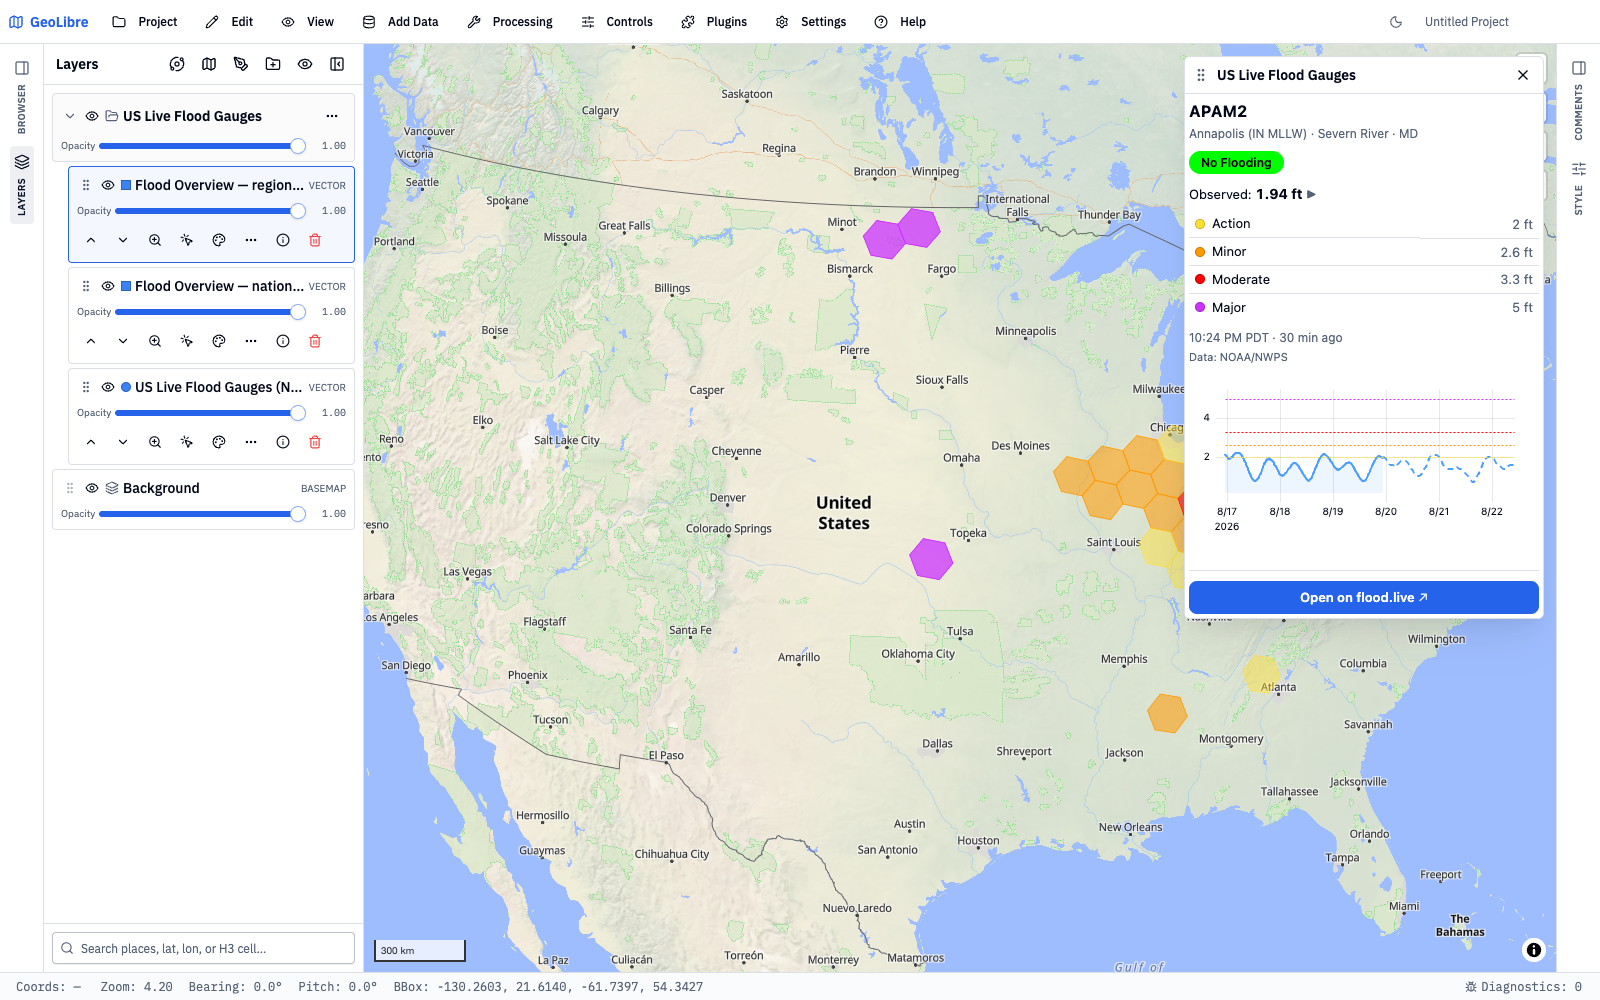
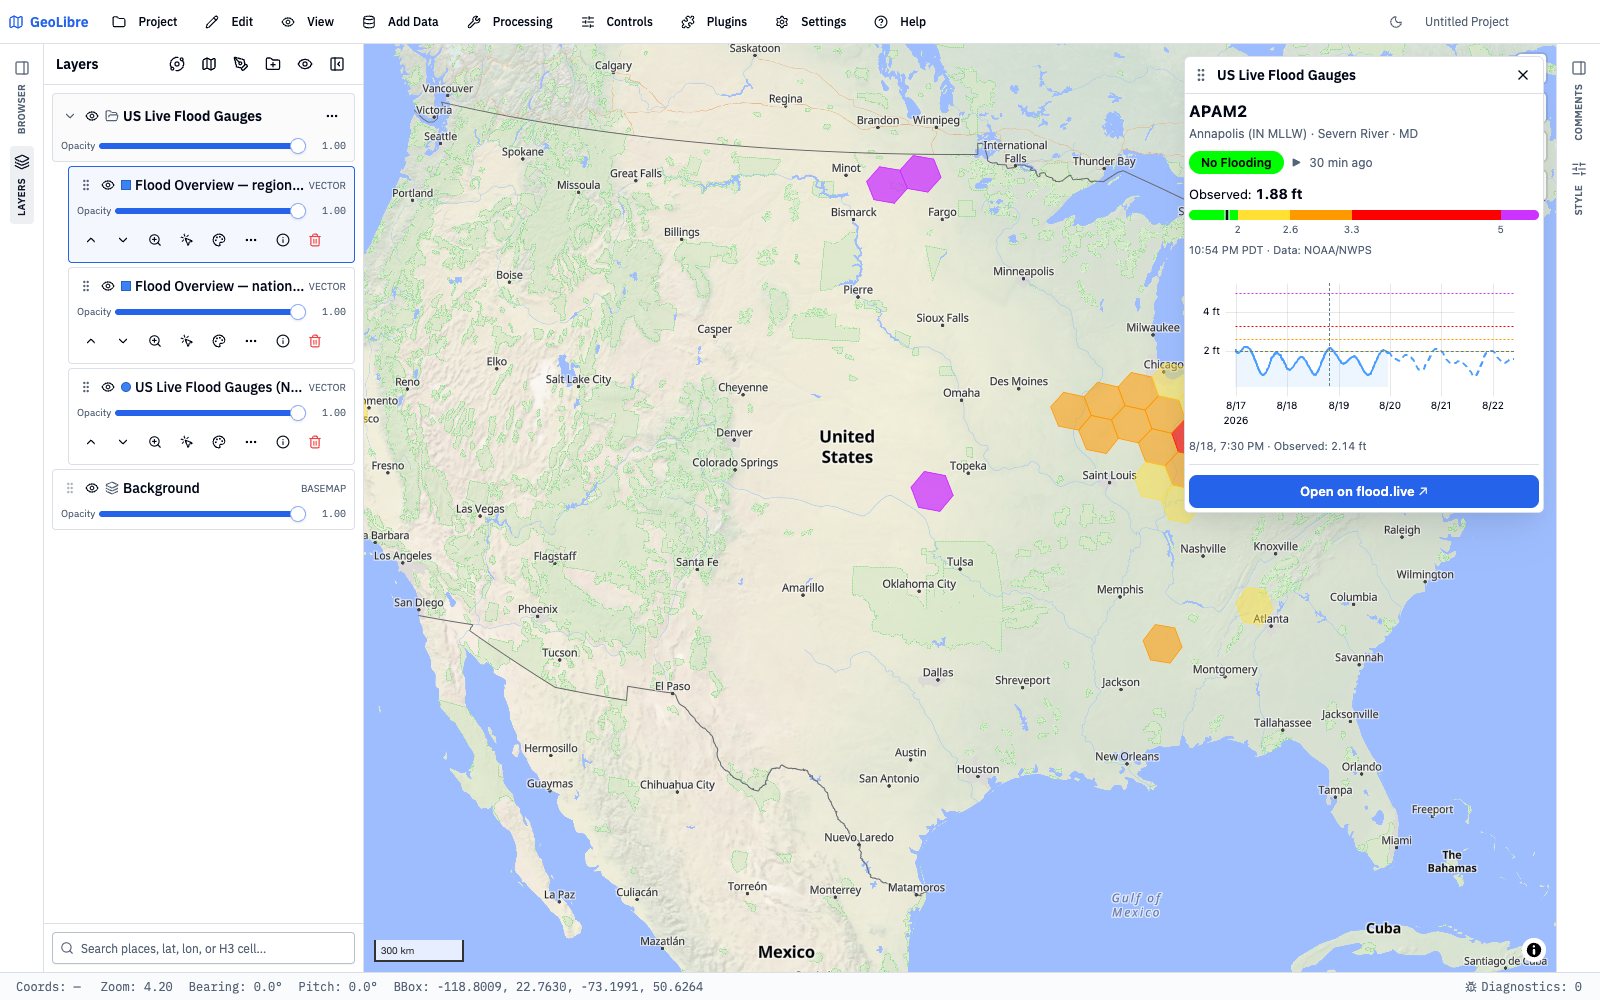
Y-axis unit labels; refreshed screenshots; credit by GitHub handle
- Hydrograph y-axis ticks now carry the stage unit ("2 ft"), axis
  widened to fit.
- Both README screenshots regenerated from the v0.3.0 panel (the CONUS
  shot still showed the old threshold table).
- Authorship shown as chuofringer (vibemapper.dev link kept), per owner
  preference — no real name in the repo.

diff --git a/src/panel/hydrograph.ts b/src/panel/hydrograph.ts
@@ -117,7 +117,11 @@ export class Hydrograph {
           grid: { stroke: GRID_COLOR, width: 1 },
           ticks: { stroke: GRID_COLOR, width: 1 },
           font: "10px system-ui",
-          size: 36,
+          // Tick labels carry the stage unit ("2 ft"), so the axis needs no
+          // separate rotated label; widen to fit the suffix.
+          size: units ? 46 : 36,
+          values: (_u: uPlot, vals: number[]) =>
+            vals.map((v) => (v == null ? "" : units ? `${v} ${units}` : `${v}`)),
         },
       ],
     };

diff --git a/README.md b/README.md
@@ -111,4 +111,4 @@ npm run canary      # live NOAA shape/recency check (no mocks)
 
 MIT — see [LICENSE](LICENSE).
 
-Made by [Zhuo Liu](https://vibemapper.dev)
+Made by [chuofringer](https://github.com/chuofringer) · [vibemapper.dev](https://vibemapper.dev)
